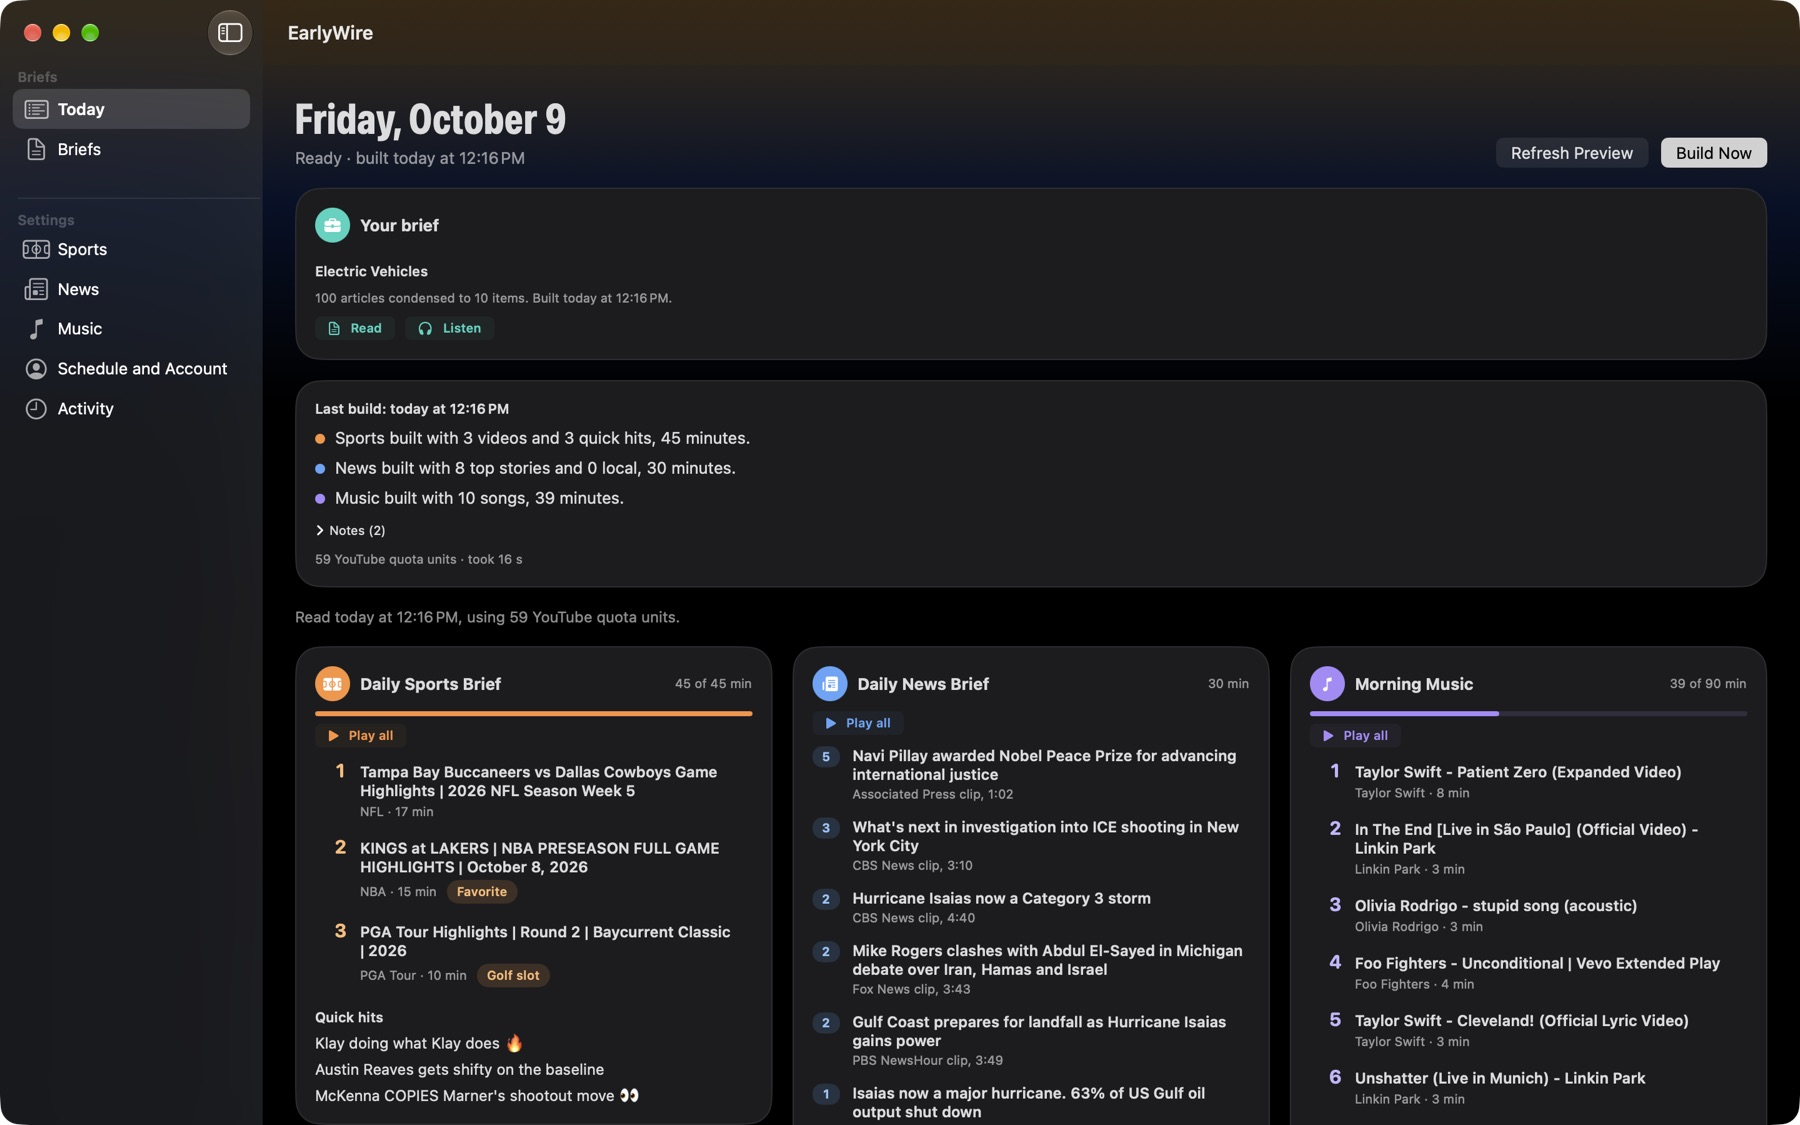
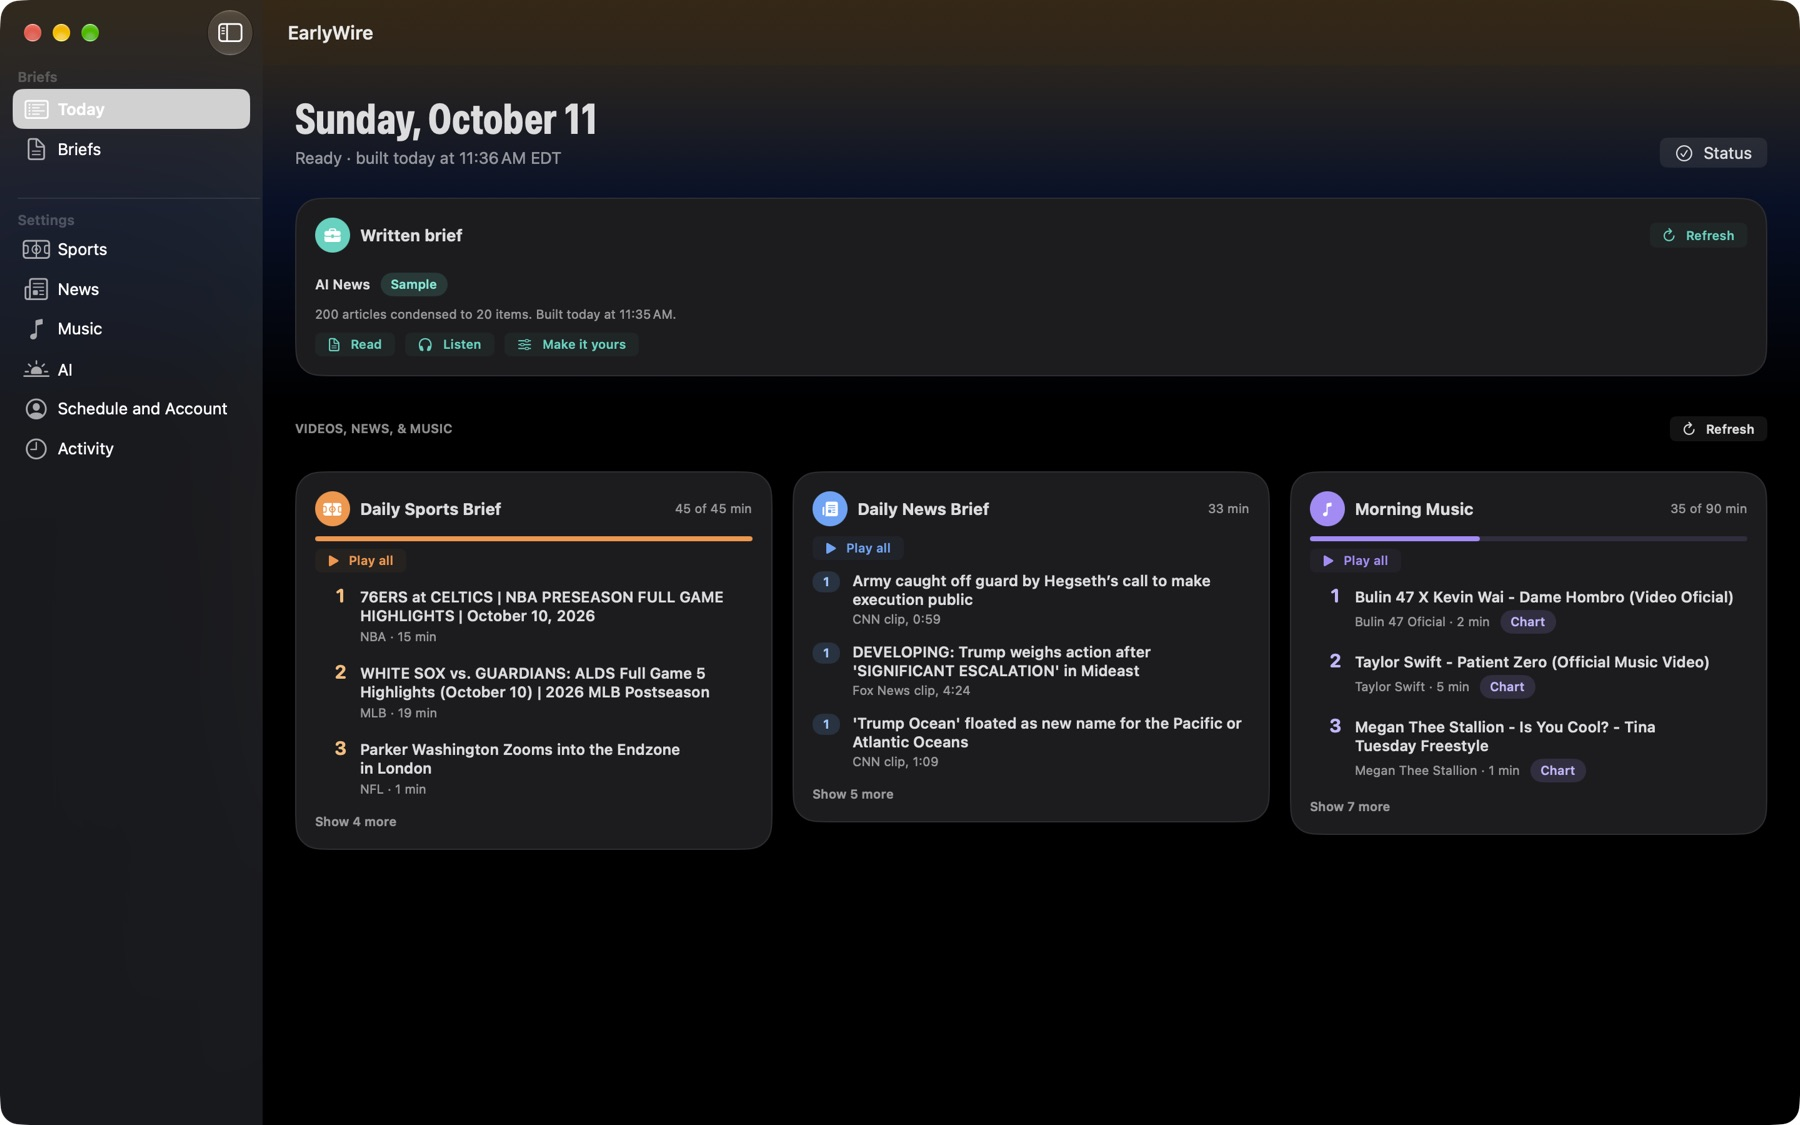
Add files via upload

diff --git a/index.html b/index.html
@@ -154,7 +154,7 @@
   <div class="wrap">
     <div class="sec-head reveal">
       <p class="dateline">What it does</p>
-      <h2>Seven small things that add up to a better morning.</h2>
+      <h2>Eight small things that add up to a better morning.</h2>
     </div>
     <div class="pillars-grid">
       <div class="steps" id="steps">
@@ -168,7 +168,7 @@
         <article class="step" data-img="phone-02-today">
           <div class="kick"><span class="num c-s">2</span><span class="dateline">Watch</span></div>
           <h3>Sports, news and music, in one tap.</h3>
-          <p>Each morning's picks are ranked by your rules and trimmed to the time you have. Tap <b>Play all</b> and the whole list opens in the YouTube app, with your own account and Premium benefits.</p>
+          <p>Each morning's picks are ranked by your rules and trimmed to the time you have. Videos, News and Music sit together, your written briefs above them, and each part has its own Refresh. Tap <b>Play all</b> and the whole list opens in the YouTube app, with your own account and Premium benefits.</p>
           <ul><li>45-minute sports, 30-minute music, as short or long as you like.</li><li>EarlyWire only reads public YouTube information. It never changes your account.</li></ul>
           <div class="inline-phone phone"><div class="screen"><img src="assets/img/phone-02-today.jpg" alt="The Today screen with a Daily Sports Brief and a Play all button" loading="lazy" width="880" height="1912"></div></div>
         </article>
@@ -199,8 +199,15 @@
           <ul><li>Every proposed change is checked in code against what you actually typed.</li></ul>
           <div class="inline-phone phone"><div class="screen"><img src="assets/img/phone-06-sports-adjust.jpg" alt="Proposed settings changes with switches and an Apply button" loading="lazy" width="880" height="1912"></div></div>
         </article>
+        <article class="step" data-img="phone-10-schedule">
+          <div class="kick"><span class="num c-a">7</span><span class="dateline">Schedule</span></div>
+          <h3>Say when it should be ready.</h3>
+          <p>Pick a "Ready by" time and the days, once, and every brief follows it. Give any brief its own days, every other week or once a month when it needs one. Times show your time zone, and ready means ready by then, even if iOS builds a few hours earlier.</p>
+          <ul><li>One default schedule for everything, with a short list of briefs and a switch for each.</li><li>"Use this schedule for other briefs" copies a schedule to several at once.</li></ul>
+          <div class="inline-phone phone"><div class="screen"><img src="assets/img/phone-10-schedule.jpg" alt="The Schedule list: a default schedule and one row per brief with an on and off switch" loading="lazy" width="880" height="1912"></div></div>
+        </article>
         <article class="step" data-img="phone-08-widget">
-          <div class="kick"><span class="num c-a">7</span><span class="dateline">Glance</span></div>
+          <div class="kick"><span class="num c-a">8</span><span class="dateline">Glance</span></div>
           <h3>Widgets that tell you it's ready.</h3>
           <p>Home Screen and Lock Screen widgets show what was built, how long each part is and when the next build is due, so you know before you open anything.</p>
           <div class="inline-phone phone"><div class="screen"><img src="assets/img/phone-08-widget.jpg" alt="The EarlyWire widget showing Sports, News, Music and a brief, all ready" loading="lazy" width="880" height="1912"></div></div>
@@ -214,6 +221,7 @@
           <img data-name="phone-04-listen" src="assets/img/phone-04-listen.jpg" alt="" loading="lazy" width="880" height="1912">
           <img data-name="phone-05-describe-a-brief" src="assets/img/phone-05-describe-a-brief.jpg" alt="" loading="lazy" width="880" height="1912">
           <img data-name="phone-06-sports-adjust" src="assets/img/phone-06-sports-adjust.jpg" alt="" loading="lazy" width="880" height="1912">
+          <img data-name="phone-10-schedule" src="assets/img/phone-10-schedule.jpg" alt="" loading="lazy" width="880" height="1912">
           <img data-name="phone-08-widget" src="assets/img/phone-08-widget.jpg" alt="" loading="lazy" width="880" height="1912">
         </div></div>
       </div>
@@ -319,6 +327,9 @@
       <figure class="shot"><div class="phone"><div class="screen"><img src="assets/img/phone-04-listen.jpg" alt="Listen on iPhone" loading="lazy" width="880" height="1912"></div></div><figcaption>Listen</figcaption></figure>
       <figure class="shot"><div class="phone"><div class="screen"><img src="assets/img/phone-05-describe-a-brief.jpg" alt="Describe a brief on iPhone" loading="lazy" width="880" height="1912"></div></div><figcaption>Describe a brief</figcaption></figure>
       <figure class="shot"><div class="phone"><div class="screen"><img src="assets/img/phone-06-sports-adjust.jpg" alt="Adjust with words on iPhone" loading="lazy" width="880" height="1912"></div></div><figcaption>Adjust with words</figcaption></figure>
+      <figure class="shot"><div class="phone"><div class="screen"><img src="assets/img/phone-09-ready-by.jpg" alt="Choosing when the morning should be ready" loading="lazy" width="880" height="1912"></div></div><figcaption>When it's ready</figcaption></figure>
+      <figure class="shot"><div class="phone"><div class="screen"><img src="assets/img/phone-10-schedule.jpg" alt="The Schedule list on iPhone" loading="lazy" width="880" height="1912"></div></div><figcaption>Schedule</figcaption></figure>
+      <figure class="shot"><div class="phone"><div class="screen"><img src="assets/img/phone-11-schedule-detail.jpg" alt="One brief's schedule: days, time and repeat" loading="lazy" width="880" height="1912"></div></div><figcaption>A brief's schedule</figcaption></figure>
       <figure class="shot"><div class="phone"><div class="screen"><img src="assets/img/phone-07-settings.jpg" alt="Settings on iPhone" loading="lazy" width="880" height="1912"></div></div><figcaption>Settings</figcaption></figure>
     </div>
     <div class="shots" id="shots-ipad" tabindex="0" aria-label="iPad screenshots" hidden>
@@ -331,6 +342,7 @@
       <figure class="shot"><div class="laptop"><img src="assets/img/mac-02-today.jpg" alt="Today on Mac" loading="lazy" width="1800" height="1125"></div><figcaption>Today</figcaption></figure>
       <figure class="shot"><div class="laptop"><img src="assets/img/mac-03-written-brief.jpg" alt="A written brief on Mac" loading="lazy" width="1800" height="1125"></div><figcaption>A written brief</figcaption></figure>
       <figure class="shot"><div class="laptop"><img src="assets/img/mac-04-listen.jpg" alt="Listen on Mac" loading="lazy" width="1800" height="1125"></div><figcaption>Listen</figcaption></figure>
+      <figure class="shot"><div class="laptop"><img src="assets/img/mac-07-schedule.jpg" alt="Schedule on Mac: a default schedule, one row per brief, and iCloud sync" loading="lazy" width="1800" height="1125"></div><figcaption>Schedule and iCloud</figcaption></figure>
       <figure class="shot"><div class="laptop"><img src="assets/img/mac-05-describe-a-brief.jpg" alt="Describe a brief on Mac" loading="lazy" width="1800" height="1125"></div><figcaption>Describe a brief</figcaption></figure>
     </div>
   </div>
